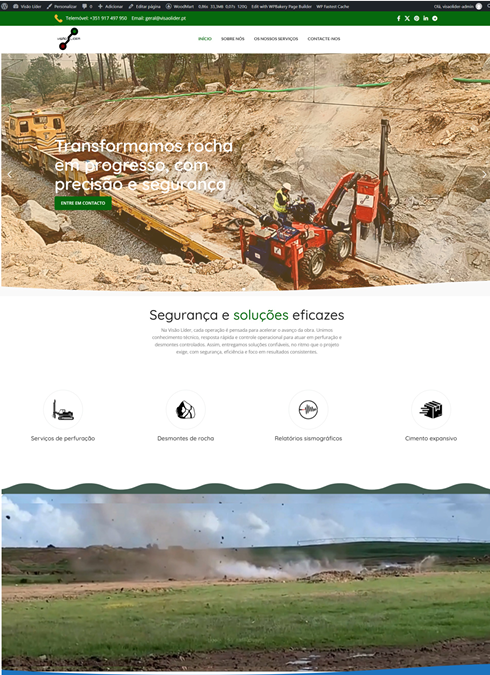
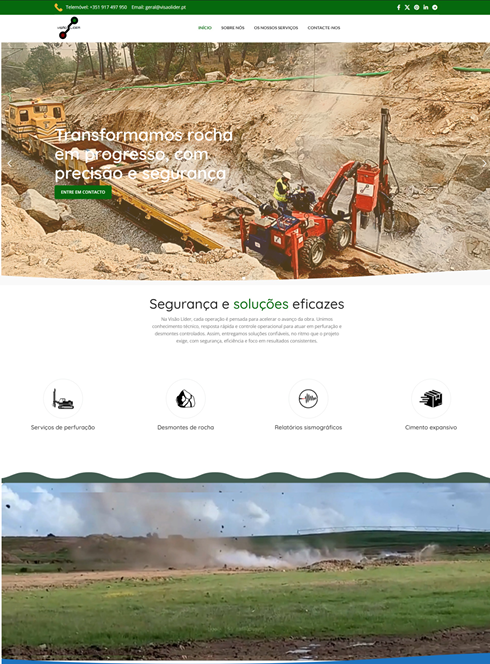
Updates resultados3

diff --git a/src/components/CaseStudiesSection.tsx b/src/components/CaseStudiesSection.tsx
@@ -31,14 +31,14 @@ export const CaseStudiesSection: React.FC = () => {
             >
               {/* Image (se existir) */}
               {cs.image && (
-                <div className="relative w-full aspect-[16/10] bg-slate-900 overflow-hidden">
-                  <img
-                    src={cs.image}
-                    alt={cs.title}
-                    className="w-full h-full object-cover object-top"
-                    loading="lazy"
-                  />
-                </div>
+                <div className="relative w-full aspect-[16/10] bg-slate-950 overflow-hidden flex items-start justify-center">
+              <img
+                src={cs.image}
+                alt={cs.title}
+                className="w-full h-full object-contain object-top"
+                loading="lazy"
+              />
+            </div>
               )}
 
               <div className="flex flex-col flex-1 p-6 sm:p-7">
